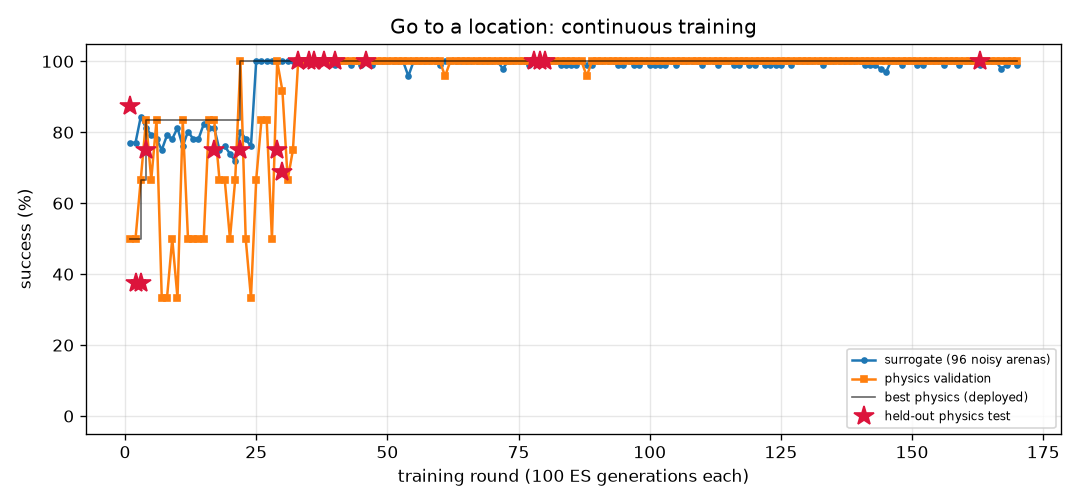
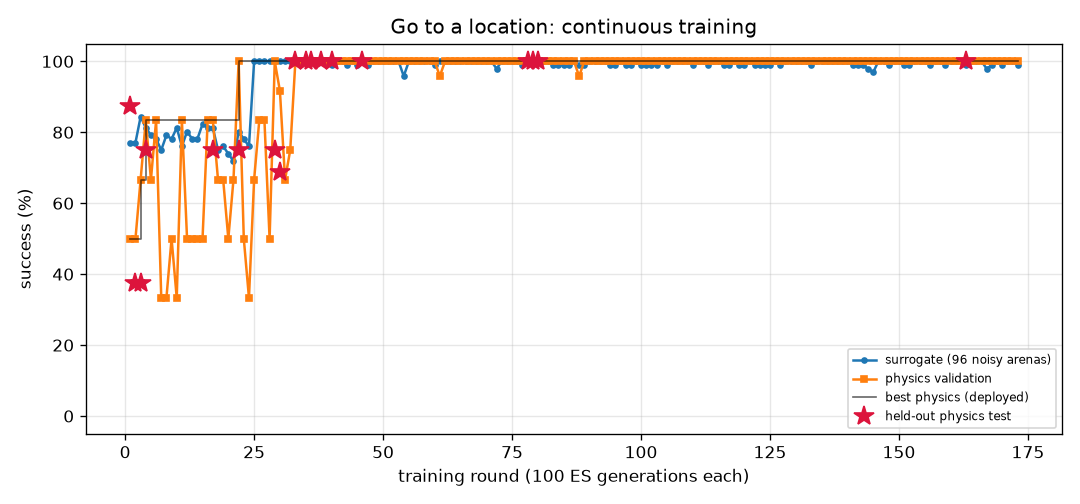
FlyLab: continuous training progress
- walk_forward: optimal, physics val 100% of 24, round 196
- turn: optimal, physics val 100% of 24, round 673
- goto: optimal, physics val 100% of 24, round 173
- odor_seek: optimal, physics val 100% of 24, round 149
- odor_avoid: optimal, physics val 100% of 24, round 640
- light_seek: optimal, physics val 100% of 24, round 360
- light_avoid: optimal, physics val 100% of 24, round 375

diff --git a/projects/09_flylab/training/goto/REPORT.md b/projects/09_flylab/training/goto/REPORT.md
@@ -1,14 +1,14 @@
 # Go to a location (`goto`) — training report
 
-*Auto-generated by `train_brains.py`, last updated 2026-10-25T17:36:33.*
+*Auto-generated by `train_brains.py`, last updated 2026-10-25T23:05:34.*
 
 ![curve](curve.png)
 
 | | |
 |---|---|
-| rounds | 170 |
-| ES generations | 17000 |
-| physics runs | 3998 |
+| rounds | 173 |
+| ES generations | 17300 |
+| physics runs | 4070 |
 | status | **optimal** |
 | best brain | round 163: physics validation **100%** on 24 arenas, surrogate 99% |
 | held-out physics test | **100%** on 32 unseen arenas (95% CI 89%-100%) (errors: [0.24, 0.34, 0.23, 0.28, 0.23, 0.27, 0.25, 0.22, 0.24, 0.3, 0.32, 0.27, 0.21, 0.23, 0.27, 0.29, 0.26, 0.32, 0.21, 0.25, 0.24, 0.25, 0.32, 0.25, 0.27, 0.21, 0.31, 0.29, 0.22, 0.3, 0.28, 0.27]) |
@@ -17,9 +17,6 @@ Physics error per arena: mm from target at the end (< 1.5 and standing still = s
 
 | round | level | gens | sigma | surrogate | physics val | val errors | test | note |
 |---:|---:|---:|---:|---:|---:|---|---:|---|
-| 131 | 3 | 13100 | 0.024 | 100% | 100% | [0.32, 0.38, 0.35, 0.34, 0.28, 0.31, 0.38, 0.37, 0.38, 0.29, 0.28, 0.32, 0.36, 0.31, 0.31, 0.36, 0.34, 0.33, 0.28, 0.36, 0.33, 0.29, 0.32, 0.31] |  |  |
-| 132 | 3 | 13200 | 0.024 | 100% | 100% | [0.52, 0.49, 0.38, 0.39, 0.36, 0.4, 0.53, 0.4, 0.44, 0.36, 0.35, 0.39, 0.47, 0.32, 0.4, 0.42, 0.47, 0.43, 0.37, 0.4, 0.39, 0.34, 0.46, 0.4] |  | restart from best |
-| 133 | 3 | 13300 | 0.024 | 99% | 100% | [0.58, 0.56, 0.43, 0.49, 0.43, 0.48, 0.53, 0.55, 0.56, 0.41, 0.43, 0.46, 0.58, 0.45, 0.51, 0.48, 0.59, 0.48, 0.42, 0.53, 0.46, 0.41, 0.59, 0.51] |  |  |
 | 134 | 3 | 13400 | 0.025 | 100% | 100% | [0.49, 0.49, 0.4, 0.44, 0.36, 0.42, 0.47, 0.37, 0.5, 0.39, 0.38, 0.44, 0.49, 0.41, 0.46, 0.4, 0.53, 0.41, 0.37, 0.47, 0.41, 0.38, 0.53, 0.44] |  |  |
 | 135 | 3 | 13500 | 0.024 | 100% | 100% | [0.58, 0.55, 0.47, 0.56, 0.43, 0.52, 0.55, 0.51, 0.6, 0.48, 0.45, 0.56, 0.61, 0.49, 0.52, 0.52, 0.62, 0.5, 0.45, 0.6, 0.48, 0.48, 0.62, 0.56] |  |  |
 | 136 | 3 | 13600 | 0.024 | 100% | 100% | [0.82, 0.81, 0.73, 0.76, 0.7, 0.74, 0.82, 0.72, 0.83, 0.72, 0.77, 0.74, 0.84, 0.73, 0.8, 0.77, 0.84, 0.75, 0.71, 0.8, 0.76, 0.74, 0.83, 0.76] |  | restart from best |
@@ -57,3 +54,6 @@ Physics error per arena: mm from target at the end (< 1.5 and standing still = s
 | 168 | 3 | 16800 | 0.025 | 99% | 100% | [0.57, 0.59, 0.62, 0.53, 0.47, 0.5, 0.54, 0.57, 0.59, 0.49, 0.48, 0.51, 0.59, 0.5, 0.48, 0.55, 0.57, 0.52, 0.48, 0.56, 0.54, 0.49, 0.57, 0.51] |  |  |
 | 169 | 3 | 16900 | 0.025 | 100% | 100% | [0.72, 0.67, 0.57, 0.65, 0.57, 0.61, 0.73, 0.66, 0.68, 0.6, 0.57, 0.63, 0.71, 0.59, 0.69, 0.65, 0.74, 0.61, 0.58, 0.69, 0.62, 0.6, 0.72, 0.62] |  |  |
 | 170 | 3 | 17000 | 0.024 | 99% | 100% | [0.44, 0.42, 0.33, 0.42, 0.32, 0.38, 0.42, 0.45, 0.46, 0.35, 0.34, 0.39, 0.46, 0.37, 0.35, 0.4, 0.47, 0.39, 0.32, 0.44, 0.37, 0.34, 0.47, 0.4] |  |  |
+| 171 | 3 | 17100 | 0.025 | 100% | 100% | [0.39, 0.32, 0.27, 0.32, 0.24, 0.29, 0.4, 0.26, 0.37, 0.27, 0.26, 0.31, 0.34, 0.25, 0.33, 0.28, 0.35, 0.28, 0.27, 0.35, 0.27, 0.3, 0.34, 0.32] |  | restart from best |
+| 172 | 3 | 17200 | 0.025 | 100% | 100% | [0.35, 0.42, 0.33, 0.33, 0.3, 0.32, 0.32, 0.36, 0.35, 0.32, 0.29, 0.29, 0.36, 0.35, 0.42, 0.39, 0.4, 0.28, 0.28, 0.32, 0.36, 0.33, 0.38, 0.31] |  |  |
+| 173 | 3 | 17300 | 0.024 | 99% | 100% | [0.43, 0.41, 0.47, 0.38, 0.33, 0.34, 0.42, 0.41, 0.4, 0.38, 0.35, 0.39, 0.42, 0.36, 0.41, 0.42, 0.44, 0.33, 0.35, 0.4, 0.38, 0.38, 0.46, 0.36] |  |  |

diff --git a/projects/09_flylab/training/walk_forward/REPORT.md b/projects/09_flylab/training/walk_forward/REPORT.md
@@ -1,14 +1,14 @@
 # Walk forward (`walk_forward`) — training report
 
-*Auto-generated by `train_brains.py`, last updated 2026-10-25T19:14:02.*
+*Auto-generated by `train_brains.py`, last updated 2026-10-25T23:04:02.*
 
 ![curve](curve.png)
 
 | | |
 |---|---|
-| rounds | 193 |
-| ES generations | 19300 |
-| physics runs | 4646 |
+| rounds | 196 |
+| ES generations | 19600 |
+| physics runs | 4718 |
 | status | **optimal** |
 | best brain | round 116: physics validation **100%** on 24 arenas, surrogate 100% |
 | held-out physics test | **100%** on 32 unseen arenas (95% CI 89%-100%) (errors: [0.13, 0.16, 0.19, 0.16, 0.15, 0.2, 0.17, 0.18, 0.17, 0.19, 0.2, 0.14, 0.17, 0.19, 0.2, 0.2, 0.13, 0.19, 0.16, 0.2, 0.2, 0.16, 0.17, 0.2, 0.13, 0.15, 0.18, 0.14, 0.16, 0.15, 0.19, 0.12]) |
@@ -17,9 +17,6 @@ Physics error per arena: mm from target at the end (< 1.5 and standing still = s
 
 | round | level | gens | sigma | surrogate | physics val | val errors | test | note |
 |---:|---:|---:|---:|---:|---:|---|---:|---|
-| 154 | 3 | 15400 | 0.024 | 99% | 88% | [0.16, 0.21, 0.65, 0.16, 0.2, 0.03, 0.21, 0.12, 0.21, 0.2, 0.53, 0.19, 0.12, 0.54, 0.18, 0.19, 0.15, 0.2, 0.13, 0.19, 0.13, 0.2, 0.18, 0.11] |  |  |
-| 155 | 3 | 15500 | 0.025 | 100% | 100% | [0.16, 0.19, 0.18, 0.16, 0.19, 0.18, 0.2, 0.18, 0.2, 0.25, 0.18, 0.26, 0.18, 0.18, 0.15, 0.26, 0.17, 0.17, 0.18, 0.15, 0.17, 0.25, 0.26, 0.18] |  |  |
-| 156 | 3 | 15600 | 0.024 | 100% | 100% | [0.26, 0.31, 0.18, 0.26, 0.31, 0.18, 0.3, 0.19, 0.3, 0.29, 0.2, 0.27, 0.19, 0.18, 0.28, 0.27, 0.24, 0.31, 0.19, 0.29, 0.21, 0.29, 0.26, 0.19] |  | restart from best |
 | 157 | 3 | 15700 | 0.024 | 99% | 100% | [0.26, 0.33, 0.19, 0.26, 0.33, 0.19, 0.32, 0.21, 0.33, 0.32, 0.2, 0.3, 0.2, 0.19, 0.28, 0.31, 0.25, 0.31, 0.21, 0.3, 0.23, 0.31, 0.3, 0.2] |  |  |
 | 158 | 3 | 15800 | 0.025 | 100% | 100% | [0.23, 0.3, 0.18, 0.23, 0.3, 0.18, 0.31, 0.18, 0.31, 0.31, 0.19, 0.28, 0.17, 0.18, 0.26, 0.3, 0.21, 0.3, 0.18, 0.27, 0.18, 0.31, 0.28, 0.17] |  |  |
 | 159 | 3 | 15900 | 0.024 | 100% | 100% | [0.24, 0.24, 0.2, 0.24, 0.24, 0.2, 0.24, 0.22, 0.24, 0.23, 0.19, 0.21, 0.22, 0.2, 0.24, 0.21, 0.23, 0.24, 0.22, 0.24, 0.23, 0.22, 0.21, 0.22] |  |  |
@@ -57,3 +54,6 @@ Physics error per arena: mm from target at the end (< 1.5 and standing still = s
 | 191 | 3 | 19100 | 0.024 | 100% | 100% | [0.28, 0.3, 0.2, 0.27, 0.3, 0.19, 0.3, 0.21, 0.3, 0.27, 0.2, 0.26, 0.21, 0.19, 0.29, 0.26, 0.26, 0.3, 0.22, 0.29, 0.23, 0.27, 0.25, 0.21] |  |  |
 | 192 | 3 | 19200 | 0.024 | 100% | 100% | [0.33, 0.36, 0.27, 0.33, 0.36, 0.27, 0.36, 0.28, 0.36, 0.35, 0.26, 0.34, 0.29, 0.27, 0.35, 0.35, 0.32, 0.35, 0.29, 0.35, 0.3, 0.35, 0.33, 0.29] |  | restart from best |
 | 193 | 3 | 19300 | 0.024 | 100% | 100% | [0.21, 0.19, 0.21, 0.21, 0.19, 0.2, 0.19, 0.21, 0.19, 0.16, 0.2, 0.16, 0.2, 0.21, 0.2, 0.17, 0.21, 0.19, 0.21, 0.2, 0.21, 0.16, 0.15, 0.21] |  |  |
+| 194 | 3 | 19400 | 0.024 | 100% | 100% | [0.2, 0.24, 0.21, 0.19, 0.24, 0.22, 0.24, 0.21, 0.24, 0.27, 0.22, 0.28, 0.2, 0.21, 0.2, 0.28, 0.2, 0.22, 0.2, 0.21, 0.2, 0.27, 0.28, 0.21] |  |  |
+| 195 | 3 | 19500 | 0.024 | 100% | 75% | [0.19, 0.26, 0.02, 0.05, 0.26, 0.02, 0.27, 0.42, 0.26, 0.27, 0.08, 0.27, 0.07, 0.13, 0.22, 0.27, 0.05, 0.26, 0.1, 0.23, 0.34, 0.27, 0.27, 0.11] |  |  |
+| 196 | 3 | 19600 | 0.024 | 100% | 100% | [0.26, 0.29, 0.21, 0.25, 0.29, 0.21, 0.28, 0.22, 0.29, 0.29, 0.2, 0.28, 0.22, 0.21, 0.27, 0.28, 0.25, 0.28, 0.22, 0.27, 0.23, 0.28, 0.27, 0.22] |  | restart from best |

diff --git a/projects/09_flylab/training/light_seek/REPORT.md b/projects/09_flylab/training/light_seek/REPORT.md
@@ -1,14 +1,14 @@
 # Walk toward light (`light_seek`) — training report
 
-*Auto-generated by `train_brains.py`, last updated 2026-10-25T21:39:24.*
+*Auto-generated by `train_brains.py`, last updated 2026-10-25T22:13:11.*
 
 ![curve](curve.png)
 
 | | |
 |---|---|
-| rounds | 359 |
-| ES generations | 35900 |
-| physics runs | 5464 |
+| rounds | 360 |
+| ES generations | 36000 |
+| physics runs | 5488 |
 | status | **optimal** |
 | best brain | round 295: physics validation **100%** on 24 arenas, surrogate 100% |
 | held-out physics test | **100%** on 32 unseen arenas (95% CI 89%-100%) (errors: [0.58, 0.62, 0.61, 0.63, 0.65, 0.65, 0.73, 0.55, 0.64, 0.59, 0.59, 0.58, 0.69, 0.61, 0.59, 0.6, 0.6, 0.63, 0.59, 0.64, 0.61, 1.11, 0.62, 0.58, 0.58, 0.58, 0.67, 0.63, 0.58, 0.66, 0.67, 0.59]) |
@@ -17,7 +17,6 @@ Physics error per arena: mm from target at the end (< 1.5 and standing still = s
 
 | round | level | gens | sigma | surrogate | physics val | val errors | test | note |
 |---:|---:|---:|---:|---:|---:|---|---:|---|
-| 320 | 3 | 32000 | 0.024 | 100% | 100% | [0.62, 0.62, 0.57, 0.51, 1.12, 0.5, 0.64, 0.59, 0.52, 0.5, 0.55, 0.56, 0.59, 0.53, 0.59, 0.57, 0.57, 0.52, 0.52, 0.54, 0.53, 0.54, 0.55, 0.65] |  |  |
 | 321 | 3 | 32100 | 0.024 | 100% | 100% | [0.53, 0.47, 0.53, 0.51, 0.59, 0.62, 0.59, 1.05, 0.53, 0.52, 0.46, 0.52, 0.58, 0.96, 0.5, 0.5, 0.58, 0.62, 0.54, 0.52, 0.51, 1.05, 0.47, 0.51] |  |  |
 | 322 | 3 | 32200 | 0.024 | 100% | 100% | [0.71, 0.63, 0.65, 0.57, 0.6, 0.59, 0.53, 0.57, 0.58, 0.85, 0.62, 0.52, 0.58, 0.58, 0.54, 0.57, 0.57, 0.51, 0.63, 0.96, 0.67, 1.15, 0.54, 0.68] |  |  |
 | 323 | 3 | 32300 | 0.024 | 100% | 96% | [0.58, 0.62, 0.54, 0.58, 0.48, 2.5, 0.56, 0.47, 0.6, 0.63, 0.59, 0.57, 0.49, 0.53, 1.09, 0.9, 0.52, 0.59, 0.61, 0.62, 0.63, 0.49, 0.47, 0.63] |  | restart from best |
@@ -57,3 +56,4 @@ Physics error per arena: mm from target at the end (< 1.5 and standing still = s
 | 357 | 3 | 35700 | 0.024 | 99% | 100% | [0.65, 0.65, 0.73, 0.64, 0.78, 0.59, 0.64, 0.82, 0.64, 0.64, 0.68, 0.62, 0.68, 0.64, 0.66, 0.66, 0.64, 0.79, 0.68, 0.71, 0.62, 0.68, 0.63, 0.6] |  |  |
 | 358 | 3 | 35800 | 0.025 | 100% | 100% | [1.02, 0.95, 0.76, 0.57, 0.66, 0.6, 0.55, 0.52, 0.64, 0.56, 0.56, 0.66, 0.51, 1.04, 0.66, 0.89, 0.69, 0.66, 0.55, 0.64, 0.64, 0.71, 0.71, 1.0] |  |  |
 | 359 | 3 | 35900 | 0.024 | 100% | 100% | [0.49, 0.52, 0.6, 0.57, 0.56, 0.51, 0.54, 0.53, 0.56, 0.79, 0.51, 0.58, 0.49, 1.0, 0.49, 0.96, 0.44, 0.61, 0.61, 0.92, 0.47, 0.52, 0.44, 0.82] |  | restart from best |
+| 360 | 3 | 36000 | 0.024 | 100% | 100% | [0.52, 0.63, 0.63, 0.62, 0.53, 0.57, 0.59, 0.61, 0.54, 1.01, 0.6, 0.65, 0.62, 0.62, 0.57, 0.56, 0.56, 0.74, 0.6, 0.63, 0.55, 0.72, 0.55, 0.88] |  |  |

diff --git a/projects/09_flylab/training/TRAINING.md b/projects/09_flylab/training/TRAINING.md
@@ -1,15 +1,15 @@
 # FlyLab brains — continuous training log
 
-*Auto-generated by `train_brains.py`, last updated 2026-10-25T21:53:30.*
+*Auto-generated by `train_brains.py`, last updated 2026-10-25T23:05:34.*
 
 Every skill has its own brain and its own training process: surrogate ES rounds, physics validation in MuJoCo, keep-the-best selection, and a held-out physics test that is never used for selection. See each skill's report for its full round-by-round history. Mastery is progressive: passing a level (100% physics validation, >=95% surrogate) doubles the validation and test arena sets; a brain is **optimal** once it holds up at level 3 (>=95% of 24 validation arenas) AND scores >=90% on the 32 held-out test arenas. Test columns show 95% Wilson confidence intervals.
 
 | skill | rounds | ES generations | physics runs | surrogate | physics val | **physics test** | status |
 |---|---:|---:|---:|---:|---:|---:|---|
-| [Walk forward](walk_forward/REPORT.md) | 193 | 19300 | 4646 | 100% | 100% of 24 | 100% of 32 (CI 89-100%) | **optimal** |
+| [Walk forward](walk_forward/REPORT.md) | 196 | 19600 | 4718 | 100% | 100% of 24 | 100% of 32 (CI 89-100%) | **optimal** |
 | [Turn in place](turn/REPORT.md) | 673 | 67300 | 16398 | 100% | 100% of 24 | 97% of 32 (CI 84-99%) | **optimal** |
-| [Go to a location](goto/REPORT.md) | 170 | 17000 | 3998 | 99% | 100% of 24 | 100% of 32 (CI 89-100%) | **optimal** |
+| [Go to a location](goto/REPORT.md) | 173 | 17300 | 4070 | 99% | 100% of 24 | 100% of 32 (CI 89-100%) | **optimal** |
 | [Find food by smell](odor_seek/REPORT.md) | 149 | 14900 | 3006 | 100% | 100% of 24 | 100% of 32 (CI 89-100%) | **optimal** |
 | [Escape a bad smell](odor_avoid/REPORT.md) | 640 | 64000 | 12666 | 97% | 100% of 24 | 97% of 32 (CI 84-99%) | **optimal** |
-| [Walk toward light](light_seek/REPORT.md) | 359 | 35900 | 5464 | 100% | 100% of 24 | 100% of 32 (CI 89-100%) | **optimal** |
+| [Walk toward light](light_seek/REPORT.md) | 360 | 36000 | 5488 | 100% | 100% of 24 | 100% of 32 (CI 89-100%) | **optimal** |
 | [Hide from light](light_avoid/REPORT.md) | 375 | 37500 | 9272 | 100% | 100% of 24 | 100% of 32 (CI 89-100%) | **optimal** |
